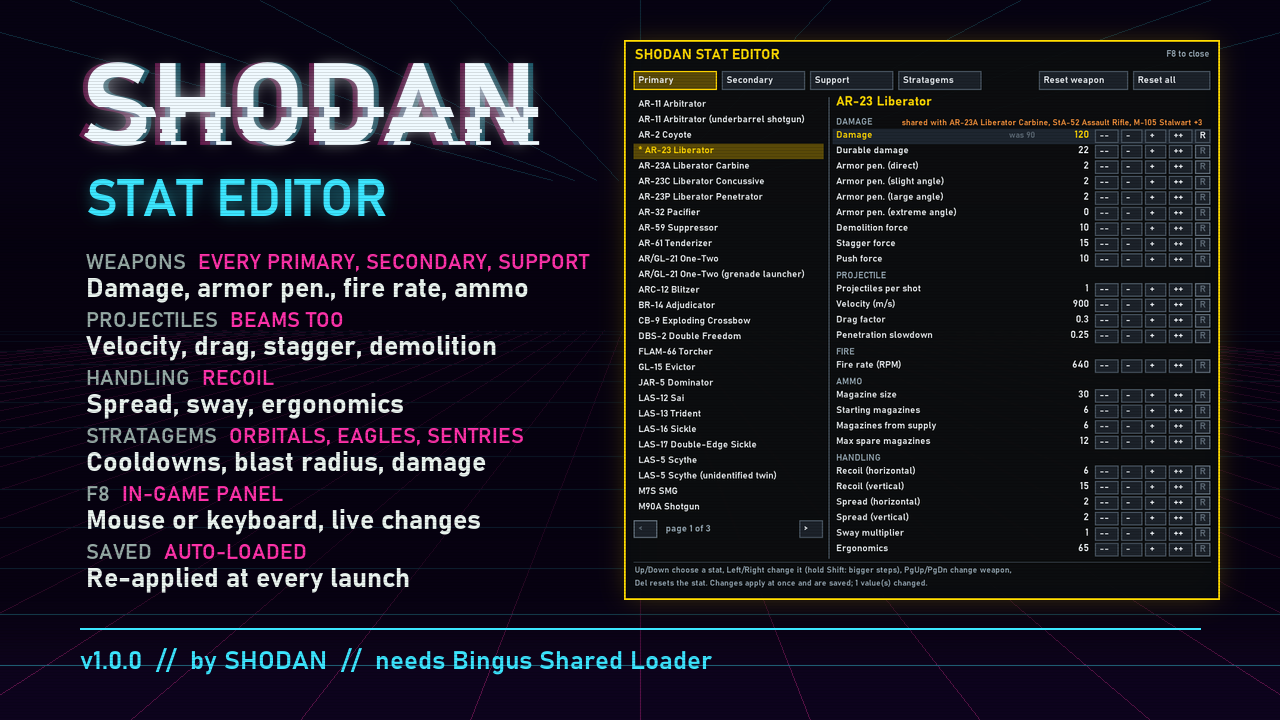
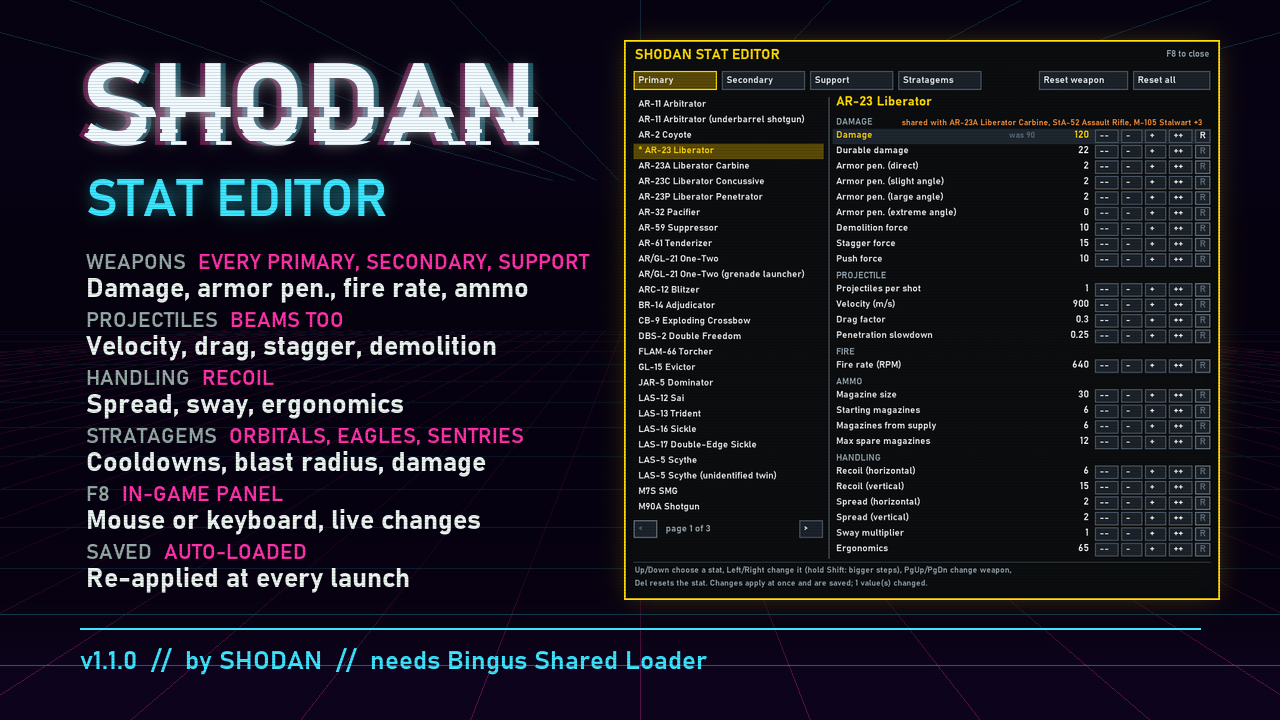
v1.1.0: damage stats for the P-2 Peacemaker and P-19 Redeemer
Their projectile comes from their default ammo attachment rather than their fire mode, so
the panel showed no damage section for them. The editor now follows the attachment.

Changed region(s): [[0.0938, 0.8861, 0.5625, 0.9472]]

diff --git a/README.md b/README.md
@@ -38,7 +38,7 @@ and are fully supported.
 ## Install
 
 1. Install **Bingus Shared Loader** (v15 or newer).
-2. Download `SHODAN-Stat-Editor-v1.0.0.zip` from the [releases page](../../releases/latest).
+2. Download `SHODAN-Stat-Editor-v1.1.0.zip` from the [releases page](../../releases/latest).
 3. Install the zip with your Helldivers 2 mod manager, like any other mod package.
 
 ## Use
